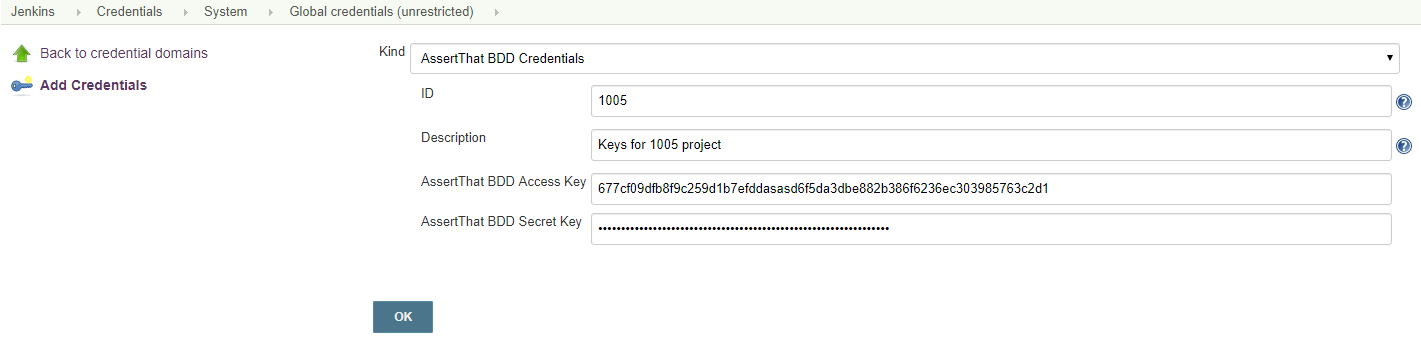
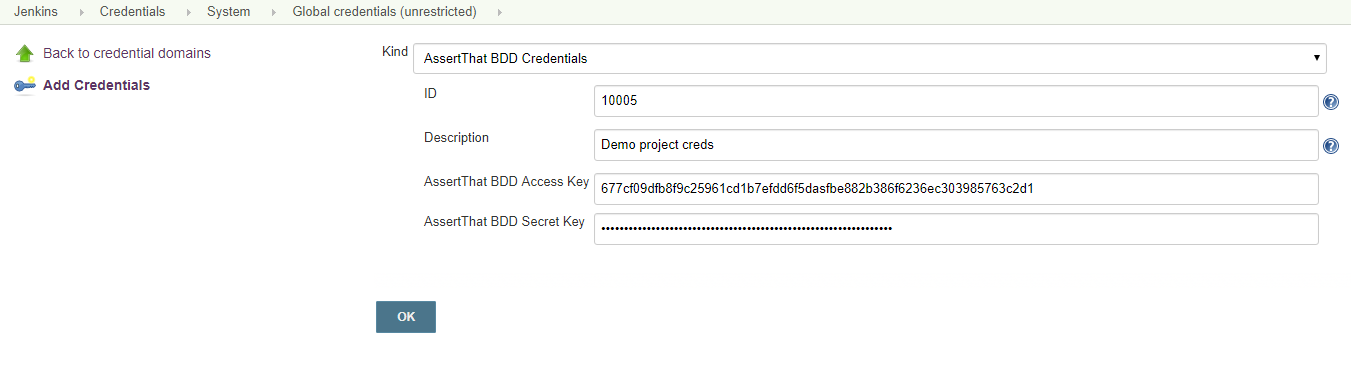
Update screenshots

diff --git a/README.md b/README.md
@@ -20,7 +20,7 @@ Download feature files:
 
 Upload reports:
 
-![Upload reports](docs/upload-reports.PNG?raw=true "Upload reports")
+![Upload reports](docs/upload-report.PNG?raw=true "Upload reports")
 
 ## Usage in pipeline Job
 
